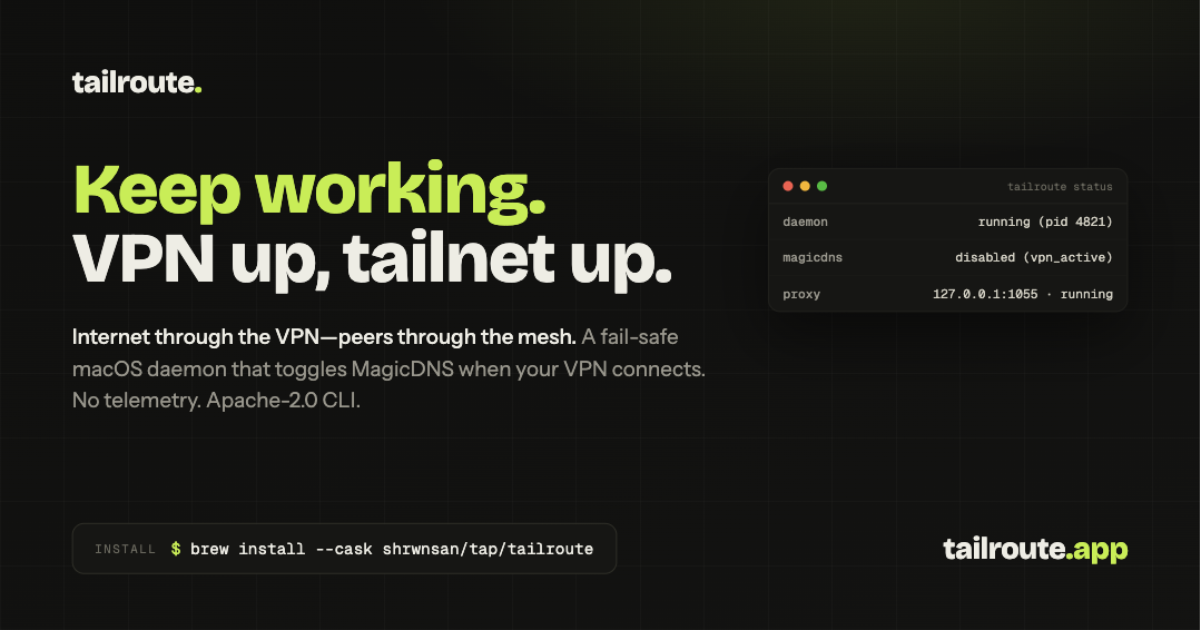
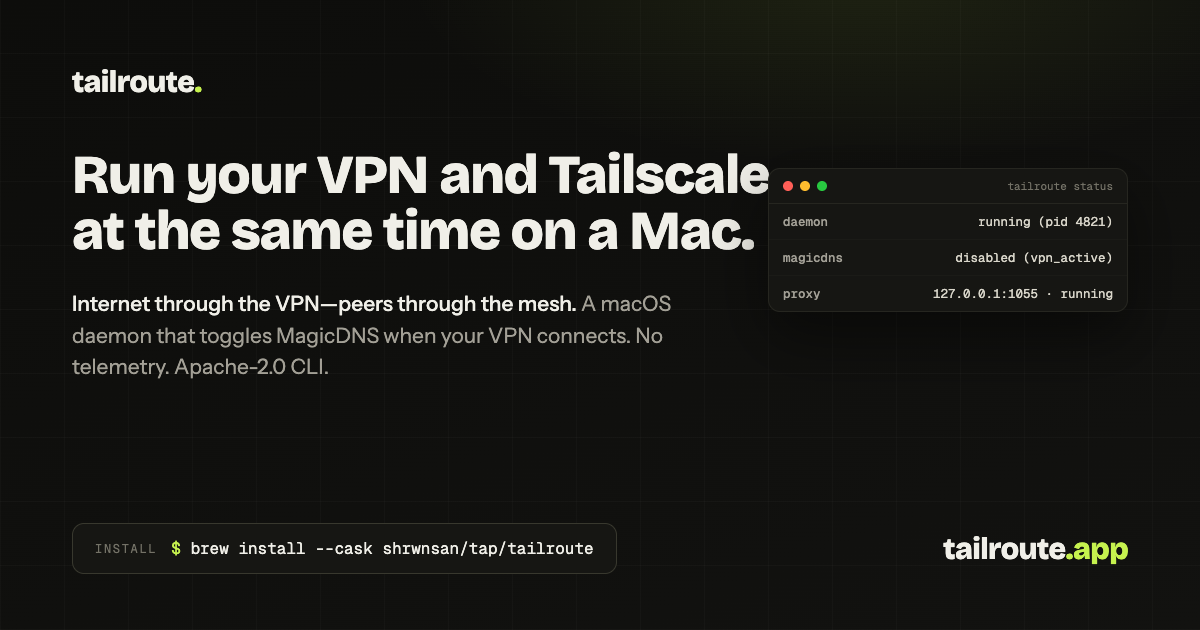
feat(site): the social card carries the live headline (#142)

diff --git a/assets/og-card.html b/assets/og-card.html
@@ -25,9 +25,8 @@
   .head { display: flex; align-items: center; gap: 14px; }
   .brand { font-family: "Bricolage Grotesque", sans-serif; font-weight: 800; font-size: 30px; letter-spacing: -0.02em; }
   .brand i { font-style: normal; color: #c6f24e; }
-  h1 { margin-top: 56px; font-family: "Bricolage Grotesque", sans-serif; font-weight: 800;
-    font-size: 70px; line-height: 0.98; letter-spacing: -0.025em; max-width: 680px; }
-  h1 em { font-style: normal; color: #c6f24e; }
+  h1 { margin-top: 48px; font-family: "Bricolage Grotesque", sans-serif; font-weight: 800;
+    font-size: 54px; line-height: 1.04; letter-spacing: -0.02em; max-width: 760px; }
   .sub { margin-top: 28px; font-size: 21px; line-height: 1.5; color: #a3a096; max-width: 660px; }
   .sub b { color: #f0efe8; font-weight: 500; }
   .foot { position: absolute; left: 72px; right: 72px; bottom: 56px;
@@ -57,7 +56,7 @@
     <div class="head">
       <div class="brand">tailroute<i>.</i></div>
     </div>
-    <h1><em>Keep working.</em><br>VPN up, tailnet&nbsp;up.</h1>
+    <h1>Run your VPN and Tailscale<br>at the same time on a&nbsp;Mac.</h1>
     <p class="sub"><b>Internet through the VPN—peers through the mesh.</b> A macOS daemon that toggles MagicDNS when your VPN connects. No telemetry. Apache-2.0 CLI.</p>
     <div class="foot">
       <div class="chip"><span class="k">INSTALL</span><span><span class="d">$</span> brew install --cask shrwnsan/tap/tailroute</span></div>
